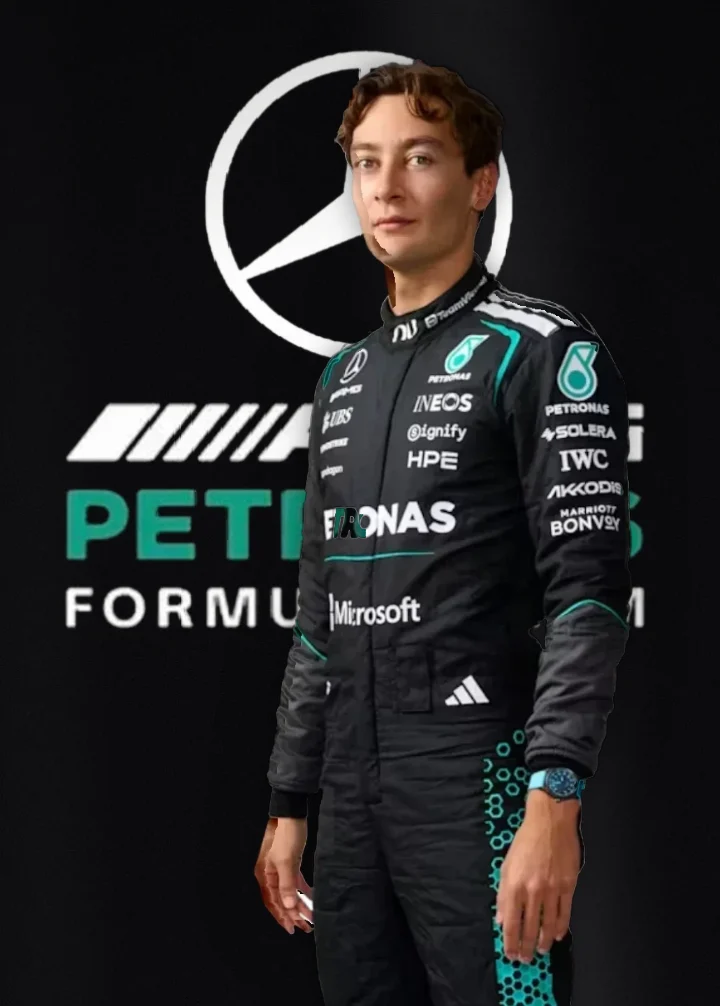
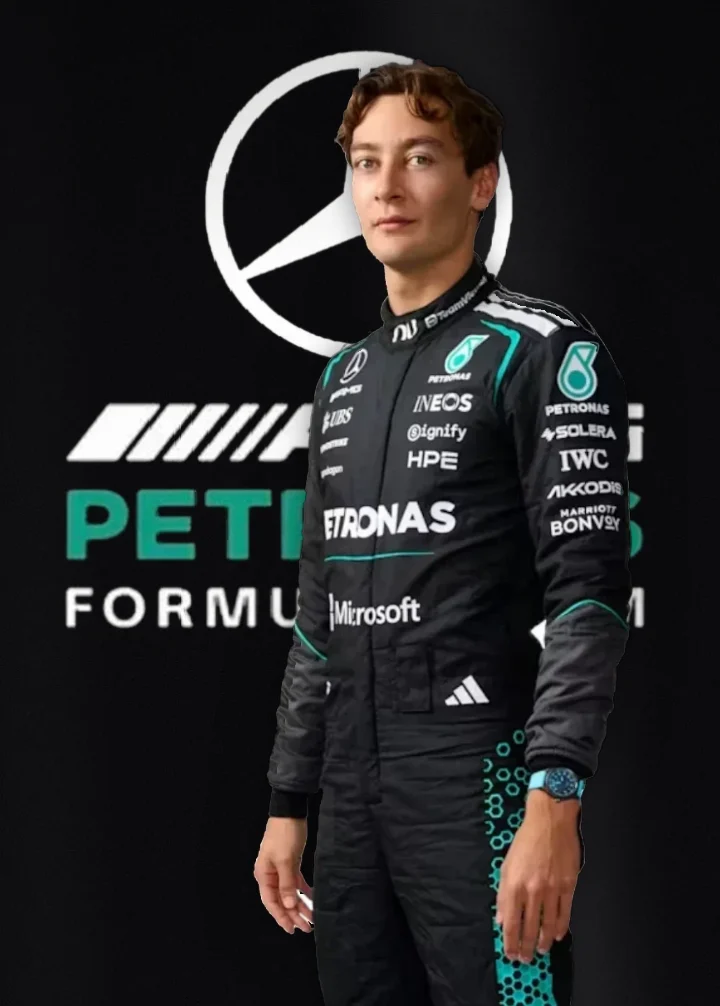
Driver cards: fix glitches in Russell's photo
The enclosed-gap rule removed pure-white letters printed on the suit
(PETRONAS), letting the backdrop show through: only gaps bigger than a
letter are removed now. The soft-edge matting made Russell's brightly
lit jaw partly see-through: skin- and suit-coloured pixels now stay
solid, while grey hair-on-white fades still blend out.

diff --git a/tools/driver_card_bg.py b/tools/driver_card_bg.py
@@ -85,7 +85,8 @@ def figure_alpha(im, head=None):
         # patches of the exact backdrop colour bigger than a speck (white suit parts are a few shades off)
         exact = (np.abs(f - bgc).max(2) < 4).astype(np.uint8)
         n2, lab2, st2, _ = cv2.connectedComponentsWithStats(exact)
-        big = np.isin(lab2, [i for i in range(1, n2) if st2[i, cv2.CC_STAT_AREA] >= 40]).astype(np.uint8)
+        # gaps are big; white printed letters on the suit are small and must stay (Russell's PETRONAS)
+        big = np.isin(lab2, [i for i in range(1, n2) if st2[i, cv2.CC_STAT_AREA] >= h * w * 4e-5]).astype(np.uint8)
         big = cv2.dilate(big, np.ones((5, 5), np.uint8)).astype(bool)   # and their anti-aliased rims
         fill[big | ((fill == 1) & (fg == 0) & (cand == 1))] = 0
     alpha = cv2.GaussianBlur(fill.astype(np.float32), (0, 0), max(0.8, min(h, w) / 1500))
@@ -108,6 +109,11 @@ def refine_edges(f, fill, alpha, bgc, band):
     a = ((f - bgc) * d).sum(2) / np.maximum((d * d).sum(2), 1.0)
     # tighten the fade: some photos were already cut out once with a soft, slightly grey feather, which
     # would show as a light rim on a dark backdrop; squaring the low end pulls that rim in
+    # clearly coloured pixels (skin, suit colours) are solid, even if lighter than the nearby driver colour:
+    # a brightly lit cheek next to dark hair would otherwise turn see-through. Grey mixes of dark hair and
+    # a white backdrop have no colour, so their soft fade is kept.
+    chroma = f.max(2) - f.min(2)
+    a = np.maximum(a, np.clip((chroma - 18) / 22, 0, 1) * (np.abs(f - bgc).max(2) > 30))
     a = np.clip(a * 1.1, 0, 1) ** 1.8
     ok = ring & (den[..., 0] > 0.02) & ((d * d).sum(2) > 900)   # only where driver and backdrop differ clearly
     out = alpha.copy()
